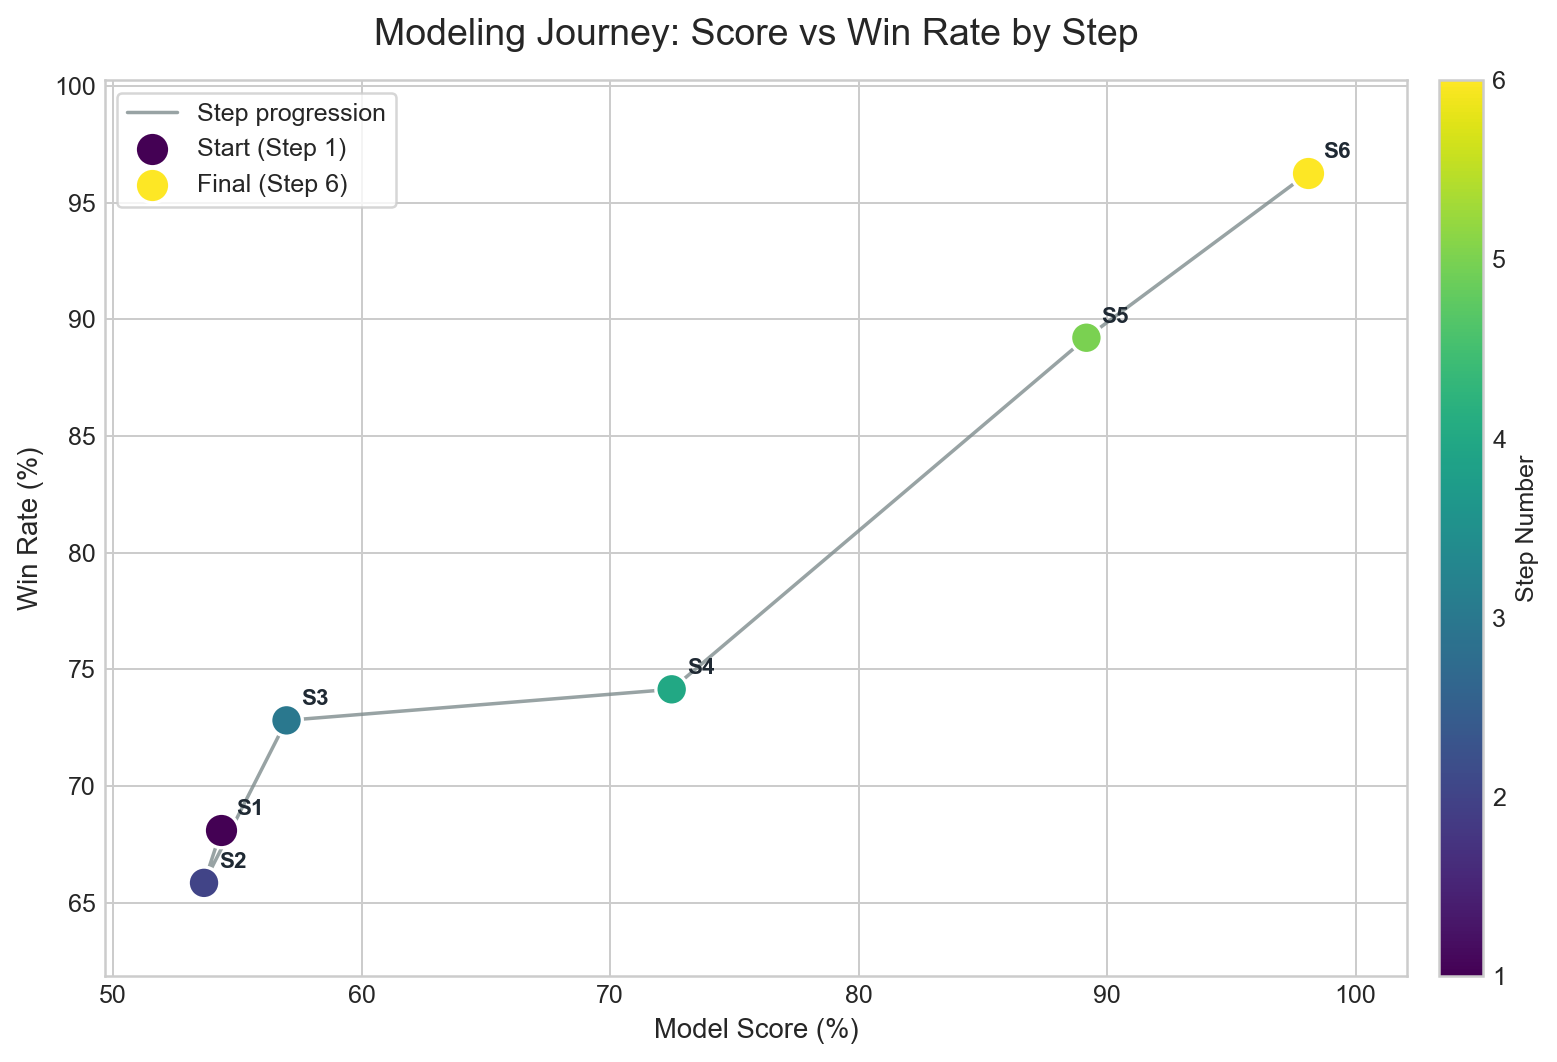
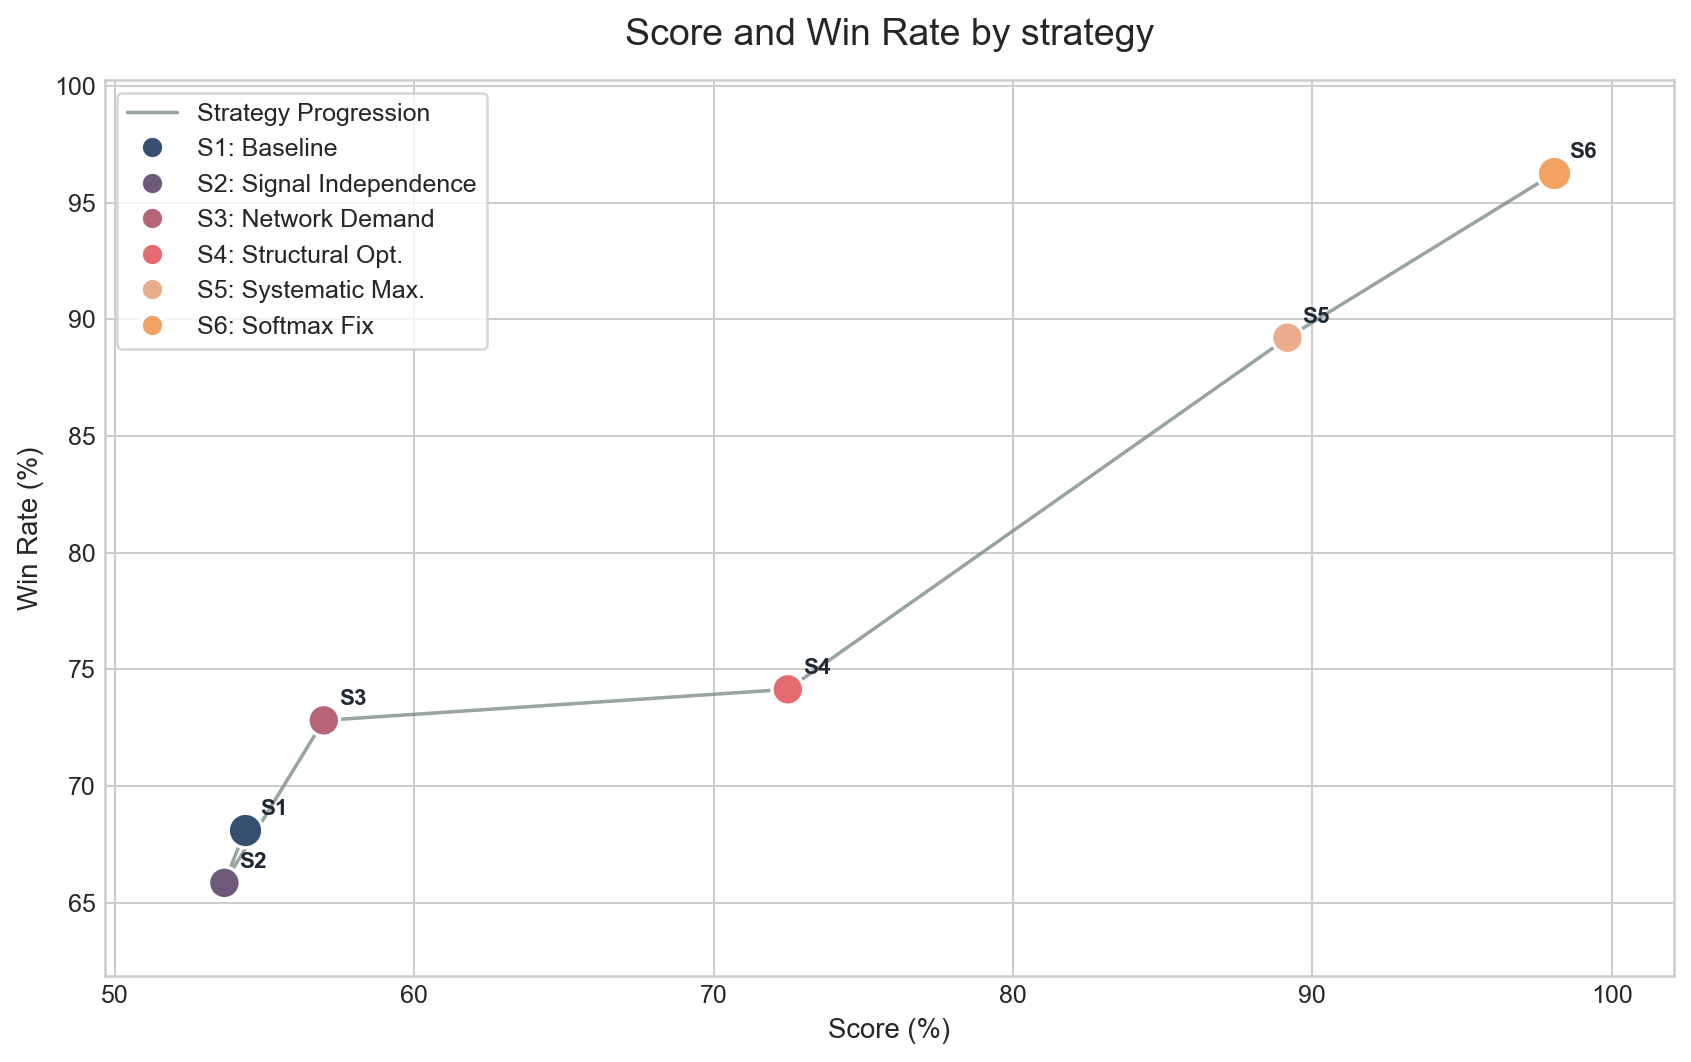
update fig 11 title

diff --git a/docs/modeling-journey.md b/docs/modeling-journey.md
@@ -13,6 +13,9 @@ We began with a baseline strategy and then refined it through experiments that a
 | 5. Systematic Maximization | 89.17% | 89.21% | 89.13% |
 | 6. Softmax Allocation  | 98.08% | 96.25% | 99.92% |
 
+![Strategy Performance comparison](assets/figures/modeling-score-vs-winrate-scatter.png)
+
+*Figure-11. The six-strategy progression moves from the lower-left baseline region toward the upper-right frontier, showing that both score and win rate improved as the strategy design was refined.*
 
 ### Strategy 1: Baseline Foundation
 
